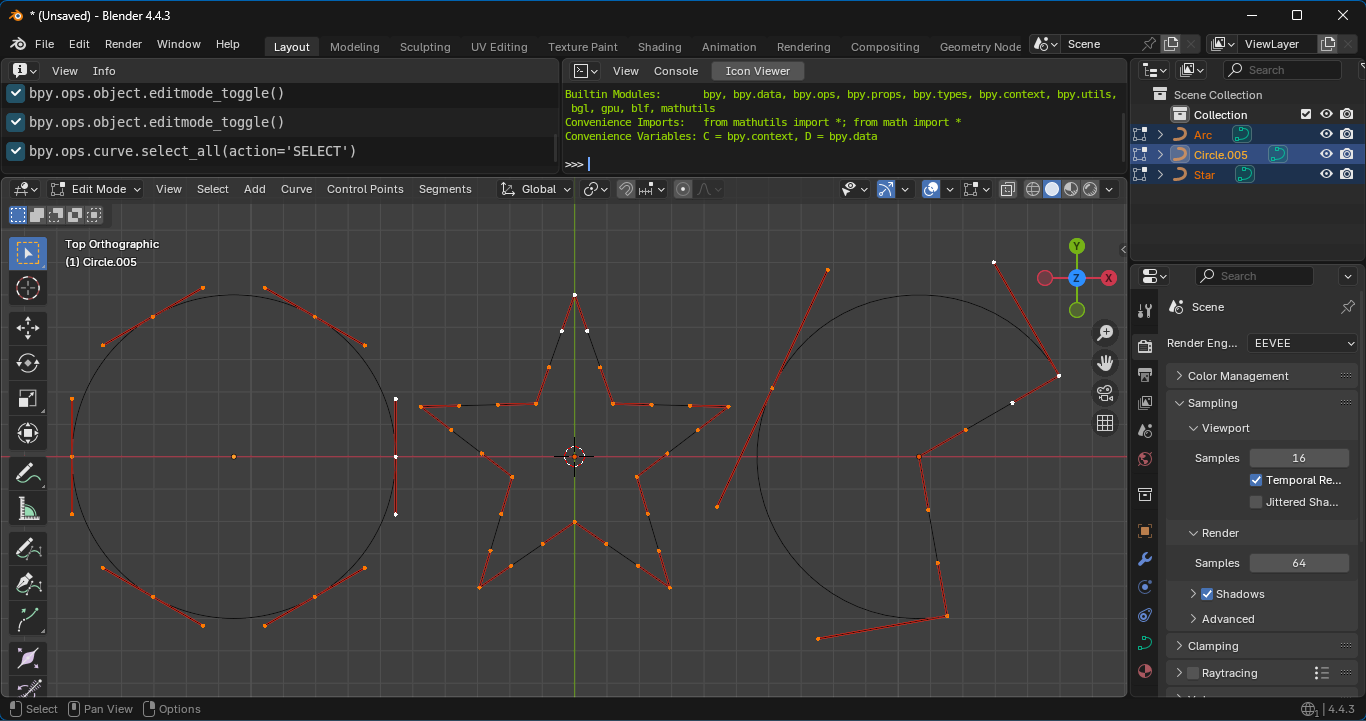
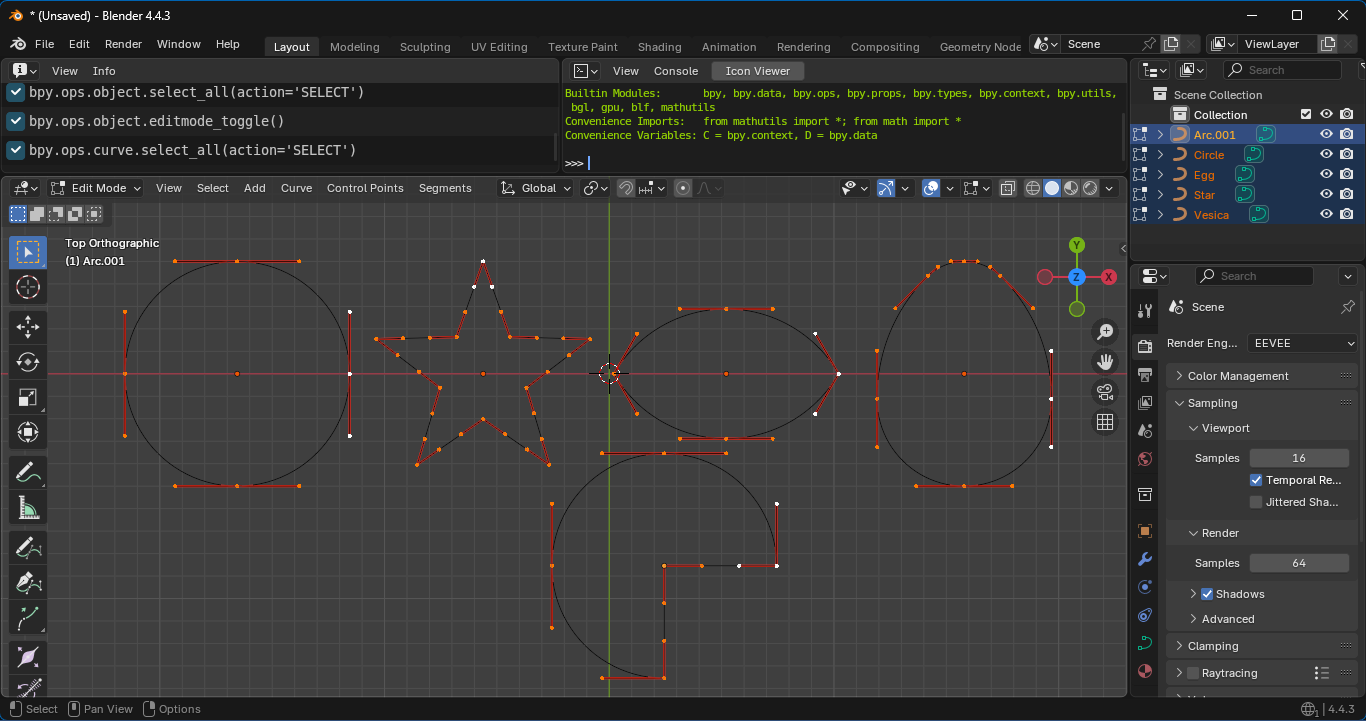
Add egg shape.

diff --git a/egg_gen.py b/egg_gen.py
@@ -1,0 +1,172 @@
+import bpy
+import math
+from bpy.props import (
+    FloatProperty,
+    FloatVectorProperty,
+    IntProperty)
+
+bl_info = {
+    "name": "Create Egg",
+    "author": "Jeremy Behreandt",
+    "version": (0, 1),
+    "blender": (4, 4, 3),
+    "category": "Add Curve",
+    "description": "Creates a Bezier curve egg.",
+    "tracker_url": "https://github.com/behreajj/blendergeom"
+}
+
+
+class EggMaker(bpy.types.Operator):
+    """Creates a Bezier curve egg"""
+
+    bl_idname = "curve.primitive_egg_add"
+    bl_label = "Egg"
+    bl_options = {"REGISTER", "UNDO"}
+
+    radius: FloatProperty(
+        name="Radius",
+        description="Egg radius",
+        min=0.0001,
+        soft_max=100.0,
+        step=1,
+        precision=3,
+        default=0.5) # type: ignore
+    
+    offset_angle: FloatProperty(
+        name="Angle",
+        description="Knot offset angle",
+        soft_min=0.0,
+        soft_max=math.tau,
+        step=57.2958,
+        default=0.0,
+        subtype="ANGLE",
+        unit="ROTATION") # type: ignore
+    
+    origin: FloatVectorProperty(
+        name="Origin",
+        description="Circle origin",
+        default=(0.0, 0.0),
+        step=1,
+        precision=3,
+        size=2,
+        subtype="TRANSLATION") # type: ignore
+    
+    res_u: IntProperty(
+        name="Resolution",
+        description="Corner resolution",
+        min=1,
+        soft_max=64,
+        default=24) # type: ignore
+    
+    def rotate_z(v, cosa, sina):
+        return (cosa * v[0] - sina * v[1],
+                cosa * v[1] + sina * v[0],
+                0.0)
+
+    def scale(v, s):
+        return (v[0] * s, v[1] * s, 0.0)
+
+    def translate(v, t):
+        return (v[0] + t[0], v[1] + t[1], 0.0)
+    
+    def execute(self, context):
+        radius = max(0.000001, self.radius)
+        offset_angle = self.offset_angle
+        origin = self.origin
+
+        cosa = math.cos(offset_angle)
+        sina = math.sin(offset_angle)
+
+        crv_data = bpy.data.curves.new("Egg", "CURVE")
+        # If a curve is 2D, then transforms cannot be applied.
+        crv_data.dimensions = "3D"
+
+        crv_splines = crv_data.splines
+        spline = crv_splines.new("BEZIER")
+        spline.use_cyclic_u = True
+        spline.resolution_u = self.res_u
+
+        bz_pts = spline.bezier_points
+        bz_pts.add(5)
+
+        points = [
+            # 0 Right knot
+            (0.7759907622602041, -0.4285678640058835, 0.0), # Rear handle
+            (0.7759907622602041, 0.0, 0.0), # Coord
+            (0.7759907622602041, 0.4285678640058835, 0.0), # Fore handle
+
+            # 1 Top Right knot
+            (0.6124788925312299, 0.8063636657377999, 0.0), # Rear handle
+            (0.3214258980044128, 1.097416660264617, 0.0), # Coord
+            (0.23277713973922606, 1.1768074267379347, 0.0), # Fore handle
+
+            # 2 Top knot
+            (0.11882188744996118, 1.224009237739796, 0.0), # Rear handle
+            (0.0, 1.224009237739796, 0.0), # Coord
+            (-0.11882188744996118, 1.224009237739796, 0.0), # Fore handle
+
+            # 3 Top left knot
+            (-0.23277713973922606, 1.1768074267379347, 0.0), # Rear handle
+            (-0.3214258980044128, 1.097416660264617, 0.0), # Coord
+            (-0.6124788925312299, 0.8063636657377999, 0.0), # Fore handle
+
+            # 4 Left knot
+            (-0.7759907622602041, 0.4285678640058835, 0.0), # Rear handle
+            (-0.7759907622602041, 0.0, 0.0), # Coord
+            (-0.7759907622602041, -0.4285678640058835, 0.0), # Fore handle
+
+            # 5 Bottom knot
+            (-0.4285678640058835, -0.7759907622602041, 0.0), # Rear handle
+            (0.0, -0.7759907622602041, 0.0), # Coord
+            (0.4285678640058835, -0.7759907622602041, 0.0), # Fore handle
+        ]
+
+        y_displace = 0.22400923773979597
+        origin_displace = EggMaker.translate(
+            origin, (0.0, -y_displace * radius))
+
+        i = 0
+        for knot in bz_pts:
+            rh = points[i]
+            co = points[i + 1]
+            fh = points[i + 2]
+
+            knot.handle_left_type = "FREE"
+            knot.handle_right_type = "FREE"
+            knot.handle_left = EggMaker.translate(
+                EggMaker.rotate_z(
+                EggMaker.scale(rh, radius),
+                cosa, sina),
+                origin_displace)
+            knot.co = EggMaker.translate(
+                EggMaker.rotate_z(
+                EggMaker.scale(co, radius),
+                cosa, sina),
+                origin_displace)
+            knot.handle_right = EggMaker.translate(
+                EggMaker.rotate_z(
+                EggMaker.scale(fh, radius),
+                cosa, sina),
+                origin_displace)
+
+            i = i + 3
+
+        crv_obj = bpy.data.objects.new(crv_data.name, crv_data)
+        crv_obj.location = context.scene.cursor.location
+        context.scene.collection.objects.link(crv_obj)
+
+        return {"FINISHED"}
+
+
+def menu_func(self, context):
+    self.layout.operator(EggMaker.bl_idname, icon="CURVE_BEZCURVE")
+
+
+def register():
+    bpy.utils.register_class(EggMaker)
+    bpy.types.VIEW3D_MT_curve_add.append(menu_func)
+
+
+def unregister():
+    bpy.utils.unregister_class(EggMaker)
+    bpy.types.VIEW3D_MT_curve_add.remove(menu_func)

diff --git a/README.md b/README.md
@@ -4,10 +4,11 @@
 
 This repository houses Python scripts to create basic 2D geometry with Bezier curves in [Blender](https://www.blender.org/). At time of writing, this includes
 
-1. A Bezier circle that lets you specify the number of knots and their angular offset. The circle defaults to a filled 2D curve.
+1. A Bezier circle that lets you specify the number of knots and their angular offset.
 2. A Bezier arc that lets you specify a start and stop angle. There is a choice between stroke, chord and pie type arc.
 3. A Bezier star.
 4. A [vesica piscis](https://en.wikipedia.org/wiki/Vesica_piscis), the intersection of two circles.
+5. A Bezier egg.
 
 These scripts were tested with Blender version 4.4.3.
 
